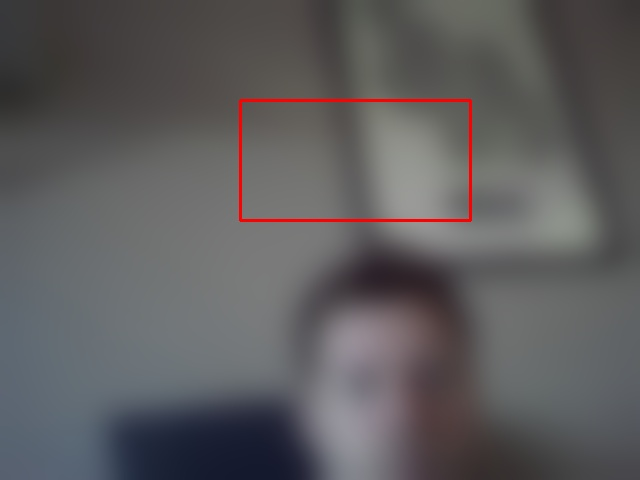
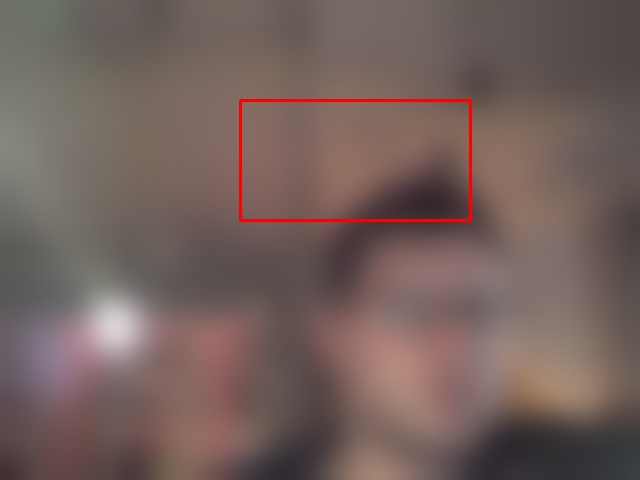
/dt

diff --git a/templates/index.html b/templates/index.html
@@ -45,10 +45,24 @@
         </tr>
     </table>
 
+    <table>
+        <tr>
+            <td>Brightness:</td>
+            <td><button style="width: 25px" onclick="window.location.href='/brightness_up'">+</button></td>
+            <td><button style="width: 25px" onclick="window.location.href='/brightness_down'">-</button></td>
+        </tr>
+        <tr>
+            <td>Saturation:</td>
+            <td><button style="width: 25px" onclick="window.location.href='/saturation_up'">+</button></td>
+            <td><button style="width: 25px" onclick="window.location.href='/saturation_down'">-</button></td>
+        </tr>
+    </table>
+    <br>
     <div>
         <button onclick="window.location.href='/'">reload</button>
         <button onclick="window.location.href='/stop'">stop</button>
     </div>
+
 </body>
 
 </html>

diff --git a/app.py b/app.py
@@ -45,26 +45,55 @@ def stop():
 
 @app.get('/brightness/{brightness}')
 def brightness(brightness: float):
-    import cv2
-
-    ColorGrabber().vid.set(cv2.CAP_PROP_BRIGHTNESS, brightness)
-    brightness = ColorGrabber().vid.get(cv2.CAP_PROP_BRIGHTNESS)
-    print('\nBrightness: ', brightness)
-    config.brightness = brightness
+    ColorGrabber().brightness = brightness
+    config.brightness = ColorGrabber().brightness
     save_config()
     return RedirectResponse('/')
 
 
 @app.get('/saturation/{sat}')
 def saturation(sat: float):
-    import cv2
-
-    ColorGrabber().vid.set(cv2.CAP_PROP_SATURATION, sat)
-    sat = ColorGrabber().vid.get(cv2.CAP_PROP_SATURATION)
-    print('\nSaturation: ', sat)
-    config.saturation = sat
+    ColorGrabber().saturation = sat
+    config.saturation = ColorGrabber().saturation
     save_config()
     return RedirectResponse('/')
+
+
+@app.get('/saturation_up')
+def saturation_up():
+    ColorGrabber().saturation += 5
+    config.saturation = ColorGrabber().saturation
+    save_config()
+    return RedirectResponse('/')
+
+
+@app.get('/saturation_down')
+def saturation_up():
+    ColorGrabber().saturation -= 5
+    config.saturation = ColorGrabber().saturation
+    save_config()
+    return RedirectResponse('/')
+
+
+@app.get('/brightness_up')
+def brightness_up():
+    ColorGrabber().brightness += 5
+    config.brightness = ColorGrabber().brightness
+    save_config()
+    return RedirectResponse('/')
+
+
+@app.get('/brightness_down')
+def brightness_up():
+    ColorGrabber().brightness -= 5
+    config.brightness = ColorGrabber().brightness
+    save_config()
+    return RedirectResponse('/')
+
+
+@app.get('/dt')
+def dt():
+    return {'dt': ColorGrabber().tn.dt}
 
 
 @app.get('/window')

diff --git a/modules/colorgrabber.py b/modules/colorgrabber.py
@@ -39,6 +39,22 @@ class ColorGrabber(threading.Thread):
         self.vid.set(cv2.CAP_PROP_FRAME_HEIGHT, config.resolution['height'])
 
     @property
+    def brightness(self):
+        return self.vid.get(cv2.CAP_PROP_BRIGHTNESS)
+
+    @brightness.setter
+    def brightness(self, value):
+        self.vid.set(cv2.CAP_PROP_BRIGHTNESS, value)
+
+    @property
+    def saturation(self):
+        return self.vid.get(cv2.CAP_PROP_SATURATION)
+
+    @saturation.setter
+    def saturation(self, value):
+        self.vid.set(cv2.CAP_PROP_SATURATION, value)
+
+    @property
     def frame(self):
         if not self.running:
             return

diff --git a/modules/telnet.py b/modules/telnet.py
@@ -80,7 +80,7 @@ class TelnetConnection(threading.Thread):
         self.dt = 0.1 * (time() - self.last_time) + 0.9 * self.dt
         self.last_time = time()
         self.new_colors = colors
-        print('\r', self.dt, end='')
+        # print('\r', self.dt, end='')
 
     def stop(self):
         self.running = False
